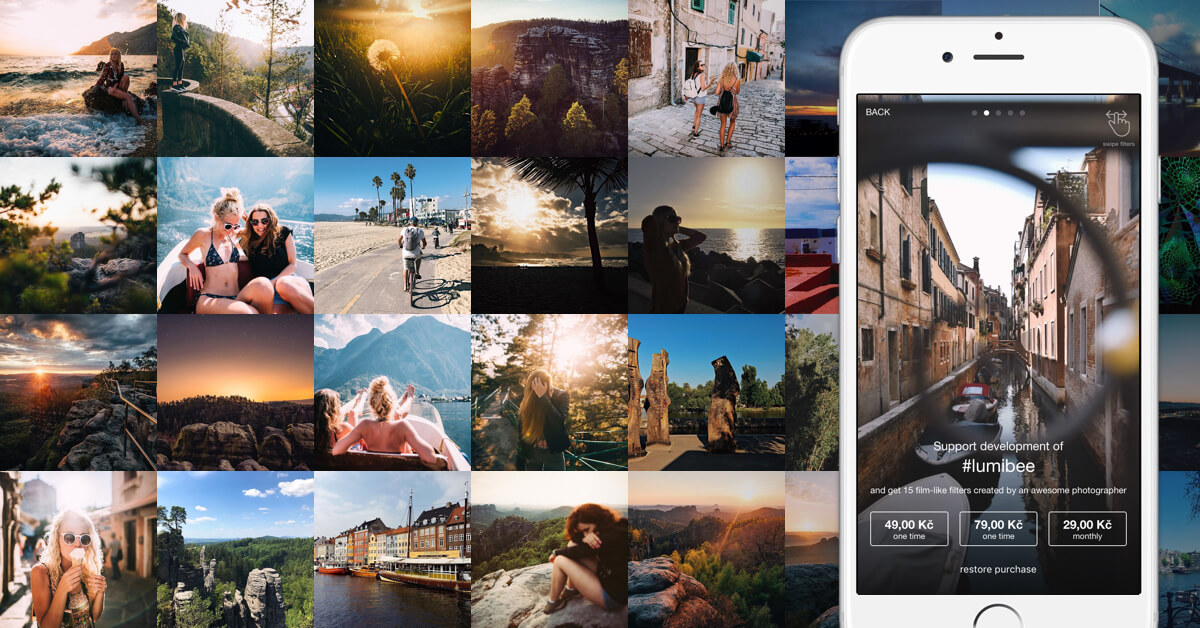
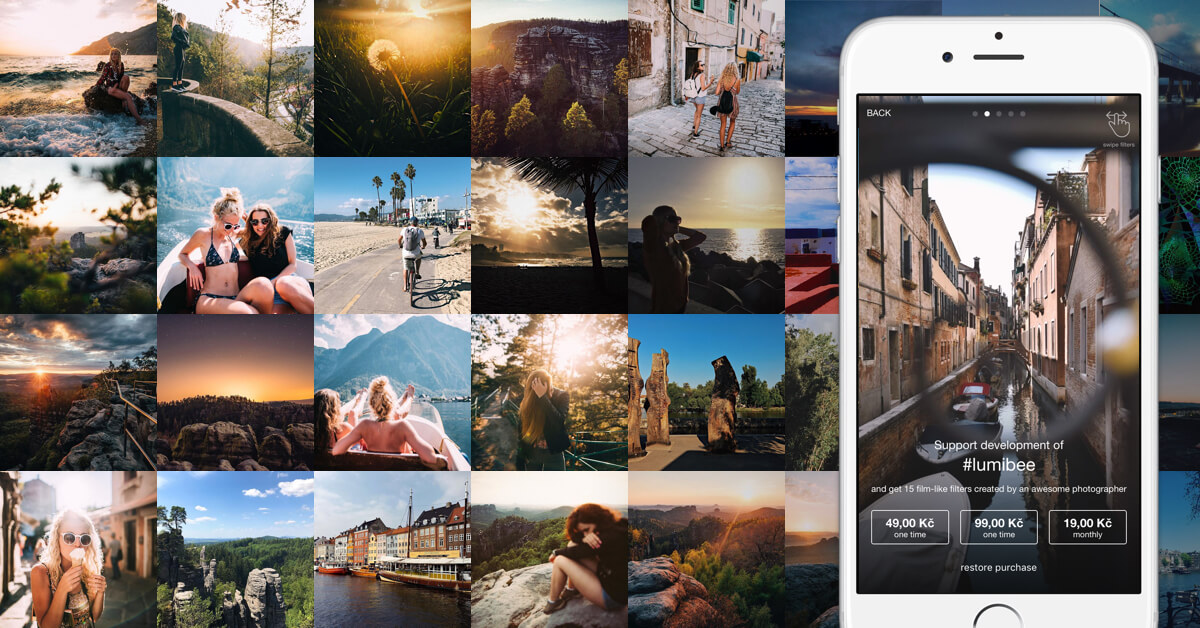
Update Lumibee article and add target blank for links

diff --git a/gatsby-config.js b/gatsby-config.js
@@ -36,6 +36,13 @@ module.exports = {
             },
           },
           {
+            resolve: "gatsby-remark-external-links",
+            options: {
+              target: "_blank",
+              rel: "nofollow"
+            }
+          },
+          {
             resolve: `gatsby-remark-responsive-iframe`,
             options: {
               wrapperStyle: `margin-bottom: 1.0725rem`,

diff --git a/README.md b/README.md
@@ -1,96 +1,3 @@
-<!-- AUTO-GENERATED-CONTENT:START (STARTER) -->
-<p align="center">
-  <a href="https://www.gatsbyjs.org">
-    <img alt="Gatsby" src="https://www.gatsbyjs.org/monogram.svg" width="60" />
-  </a>
-</p>
-<h1 align="center">
-  Gatsby's blog starter
-</h1>
+# Milian Riedel
 
-Kick off your project with this blog boilerplate. This starter ships with the main Gatsby configuration files you might need to get up and running blazing fast with the blazing fast app generator for React.
-
-_Have another more specific idea? You may want to check out our vibrant collection of [official and community-created starters](https://www.gatsbyjs.org/docs/gatsby-starters/)._
-
-## 🚀 Quick start
-
-1.  **Create a Gatsby site.**
-
-    Use the Gatsby CLI to create a new site, specifying the blog starter.
-
-    ```sh
-    # create a new Gatsby site using the blog starter
-    npx gatsby new my-blog-starter https://github.com/gatsbyjs/gatsby-starter-blog
-    ```
-
-1.  **Start developing.**
-
-    Navigate into your new site’s directory and start it up.
-
-    ```sh
-    cd my-blog-starter/
-    gatsby develop
-    ```
-
-1.  **Open the source code and start editing!**
-
-    Your site is now running at `http://localhost:8000`!
-
-    _Note: You'll also see a second link: _`http://localhost:8000/___graphql`_. This is a tool you can use to experiment with querying your data. Learn more about using this tool in the [Gatsby tutorial](https://www.gatsbyjs.org/tutorial/part-five/#introducing-graphiql)._
-
-    Open the `my-blog-starter` directory in your code editor of choice and edit `src/pages/index.js`. Save your changes and the browser will update in real time!
-
-## 🧐 What's inside?
-
-A quick look at the top-level files and directories you'll see in a Gatsby project.
-
-    .
-    ├── node_modules
-    ├── src
-    ├── .gitignore
-    ├── gatsby-browser.js
-    ├── gatsby-config.js
-    ├── gatsby-node.js
-    ├── gatsby-ssr.js
-    ├── LICENSE
-    ├── package-lock.json
-    ├── package.json
-    └── README.md
-
-1.  **`/node_modules`**: This directory contains all of the modules of code that your project depends on (npm packages) are automatically installed.
-
-2.  **`/src`**: This directory will contain all of the code related to what you will see on the front-end of your site (what you see in the browser) such as your site header or a page template. `src` is a convention for “source code”.
-
-3.  **`.gitignore`**: This file tells git which files it should not track / not maintain a version history for.
-
-4.  **`.prettierrc`**: This is a configuration file for [Prettier](https://prettier.io/). Prettier is a tool to help keep the formatting of your code consistent.
-
-5.  **`gatsby-browser.js`**: This file is where Gatsby expects to find any usage of the [Gatsby browser APIs](https://www.gatsbyjs.org/docs/browser-apis/) (if any). These allow customization/extension of default Gatsby settings affecting the browser.
-
-6.  **`gatsby-config.js`**: This is the main configuration file for a Gatsby site. This is where you can specify information about your site (metadata) like the site title and description, which Gatsby plugins you’d like to include, etc. (Check out the [config docs](https://www.gatsbyjs.org/docs/gatsby-config/) for more detail).
-
-7.  **`gatsby-node.js`**: This file is where Gatsby expects to find any usage of the [Gatsby Node APIs](https://www.gatsbyjs.org/docs/node-apis/) (if any). These allow customization/extension of default Gatsby settings affecting pieces of the site build process.
-
-8.  **`gatsby-ssr.js`**: This file is where Gatsby expects to find any usage of the [Gatsby server-side rendering APIs](https://www.gatsbyjs.org/docs/ssr-apis/) (if any). These allow customization of default Gatsby settings affecting server-side rendering.
-
-9.  **`LICENSE`**: Gatsby is licensed under the MIT license.
-
-10. **`package-lock.json`** (See `package.json` below, first). This is an automatically generated file based on the exact versions of your npm dependencies that were installed for your project. **(You won’t change this file directly).**
-
-11. **`package.json`**: A manifest file for Node.js projects, which includes things like metadata (the project’s name, author, etc). This manifest is how npm knows which packages to install for your project.
-
-12. **`README.md`**: A text file containing useful reference information about your project.
-
-## 🎓 Learning Gatsby
-
-Looking for more guidance? Full documentation for Gatsby lives [on the website](https://www.gatsbyjs.org/). Here are some places to start:
-
-- **For most developers, we recommend starting with our [in-depth tutorial for creating a site with Gatsby](https://www.gatsbyjs.org/tutorial/).** It starts with zero assumptions about your level of ability and walks through every step of the process.
-
-- **To dive straight into code samples, head [to our documentation](https://www.gatsbyjs.org/docs/).** In particular, check out the _Guides_, _API Reference_, and _Advanced Tutorials_ sections in the sidebar.
-
-## 💫 Deploy
-
-[![Deploy to Netlify](https://www.netlify.com/img/deploy/button.svg)](https://app.netlify.com/start/deploy?repository=https://github.com/gatsbyjs/gatsby-starter-blog)
-
-<!-- AUTO-GENERATED-CONTENT:END -->
+Jen obyčejnej blog. Nic k vidění. GO AWAY.

diff --git a/content/blog/lumibee-zije/index.md b/content/blog/lumibee-zije/index.md
@@ -11,7 +11,9 @@ Lumibee jsme dali s Tomášem v létě 2017 definitivně zdarma, páč na market
 
 Lumibee si začalo od té doby žít vlastním životem a nijak zvlášť jsme ho nesledovali. Uživatelé ze začátku naskakovali po stovkách až tisícovkách, ale po pár týdnech to opadlo. Sem tam nás Apple zařadil do nějakého ([výběru](https://itunes.apple.com/us/story/id1355070858), což přineslo další uživatele, ale nic dechberoucího.
 Alespoň pozitivní recenze pomalu přibývaly:
+
 ![Recenze v App Store](./appstore-reviews.jpg)
+
 > **Great fast photo editor!** 
 > The beauty of Lumibee is its super-efficient user interface.  What a great way to try out filters—just swipe up!  It has all the necessary editing tools one needs for casual photo editing.  Only request is please make it in landscape mode for iPad use.
 
@@ -22,7 +24,9 @@ Alespoň pozitivní recenze pomalu přibývaly:
 > I've said it many times on social media, this app does what it says and allows you to go through the edit process very quickly. Tomáš and Milian have hit the nail on the head with a quick editing app for your iPhone photography. The only editing app I have on my iPhone 8 Plus aside from the stock Photos app.
 
 Trochu se to změnilo před vánoci, kdy z průměrného počtu uživatelů kolem 600 denně to skočilo na cca 1100 a od té doby to nekleslo. Řekli jsme si, že tohle je možná poslední příležitost s tím něco udělat.
+
 ![Google Analytics](./analytics.jpg)
+
 Měli jsme dvě možnosti. Přidat do aplikace reklamy a mít možnost je pomocí in-appů odstranit, nebo si říct o nějakej dobrovolnej příspěvěk.
 
 Vybrali jsme si druhou možnost s tím, že za to uživatelé dostanou nové filtry. Sedli jsme si jeden večer s Radkem Kudláčkem ([hit that follow button!](https://www.instagram.com/radek_kudlacek/)) a vytvořili jsme 15 skvělejch filtrů.
@@ -57,4 +61,6 @@ Verze 1.7 Lumibee je už v App Store a pokud ji ještě nemáte v iPhonu, tak ry
 
 == redeem kódy ==
 
-Článek časem doplnim o nějaká čísla, jestli si to vůbec někdo koupil. Případně pokud někoho bude cokoliv zajímat ohledně Lumibee, tak to sem přidám.
+Článek časem doplním o nějaká čísla, jestli si to vůbec někdo koupil. Případně pokud někoho bude cokoliv zajímat ohledně Lumibee, tak to sem přidám.
+
+A samozřejmě sledujte [Lumibee](https://www.instagram.com/lumibeephoto/), sledujte [Radka](https://www.instagram.com/radek_kudlacek/) a podpořte vývoj Lumibee.
